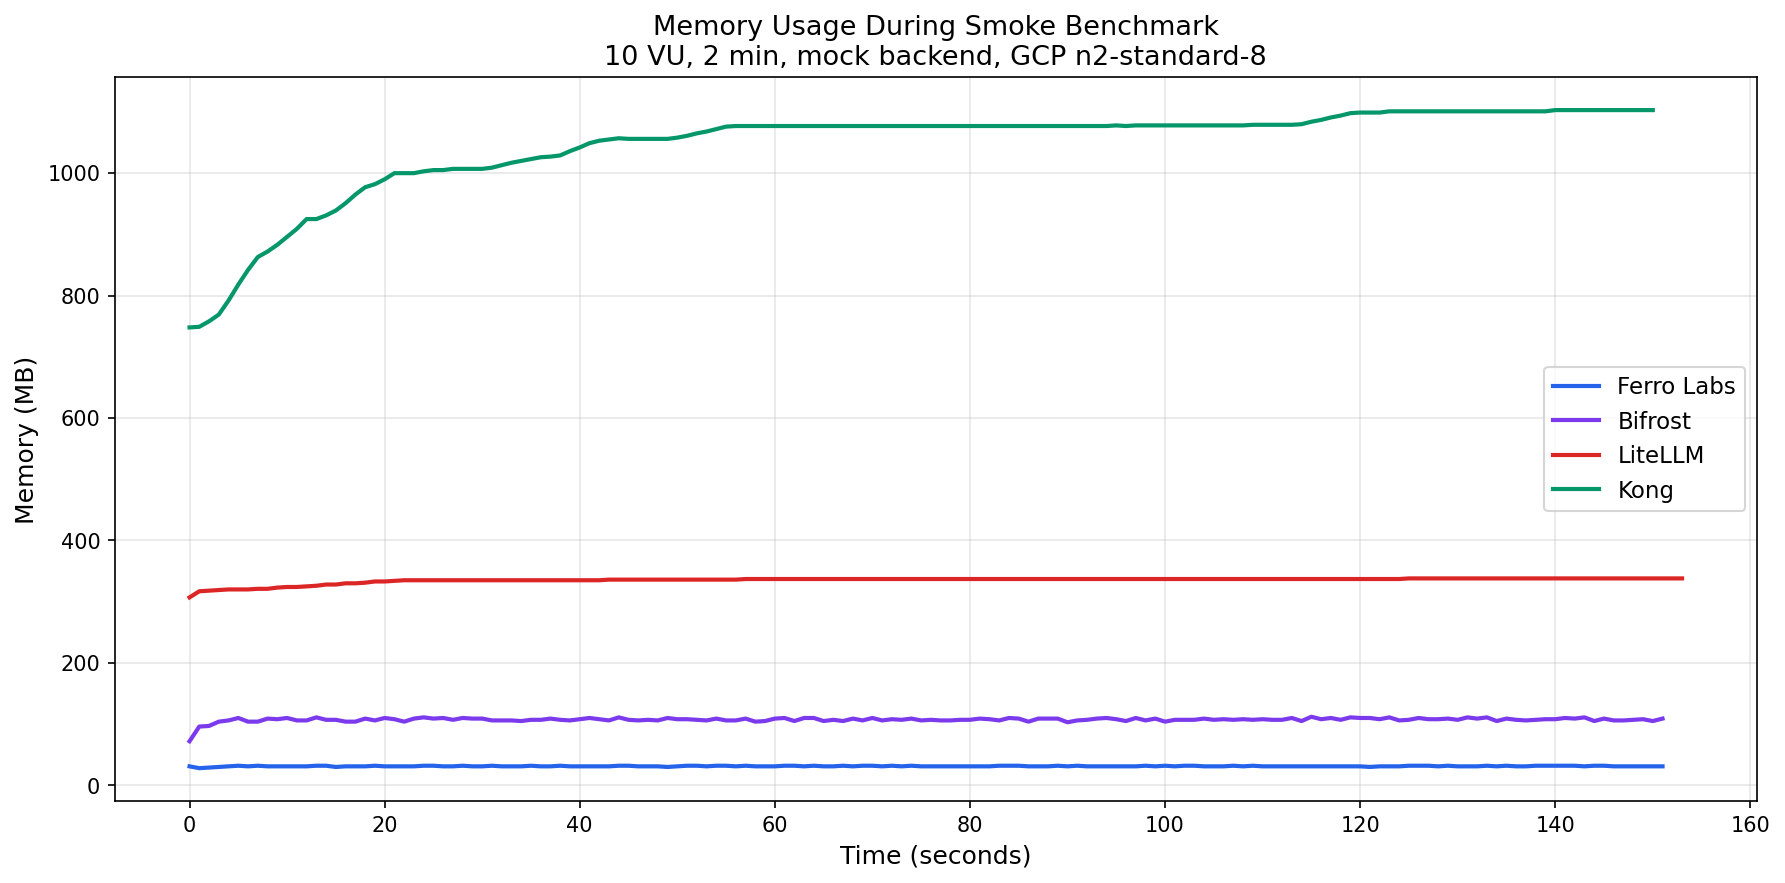
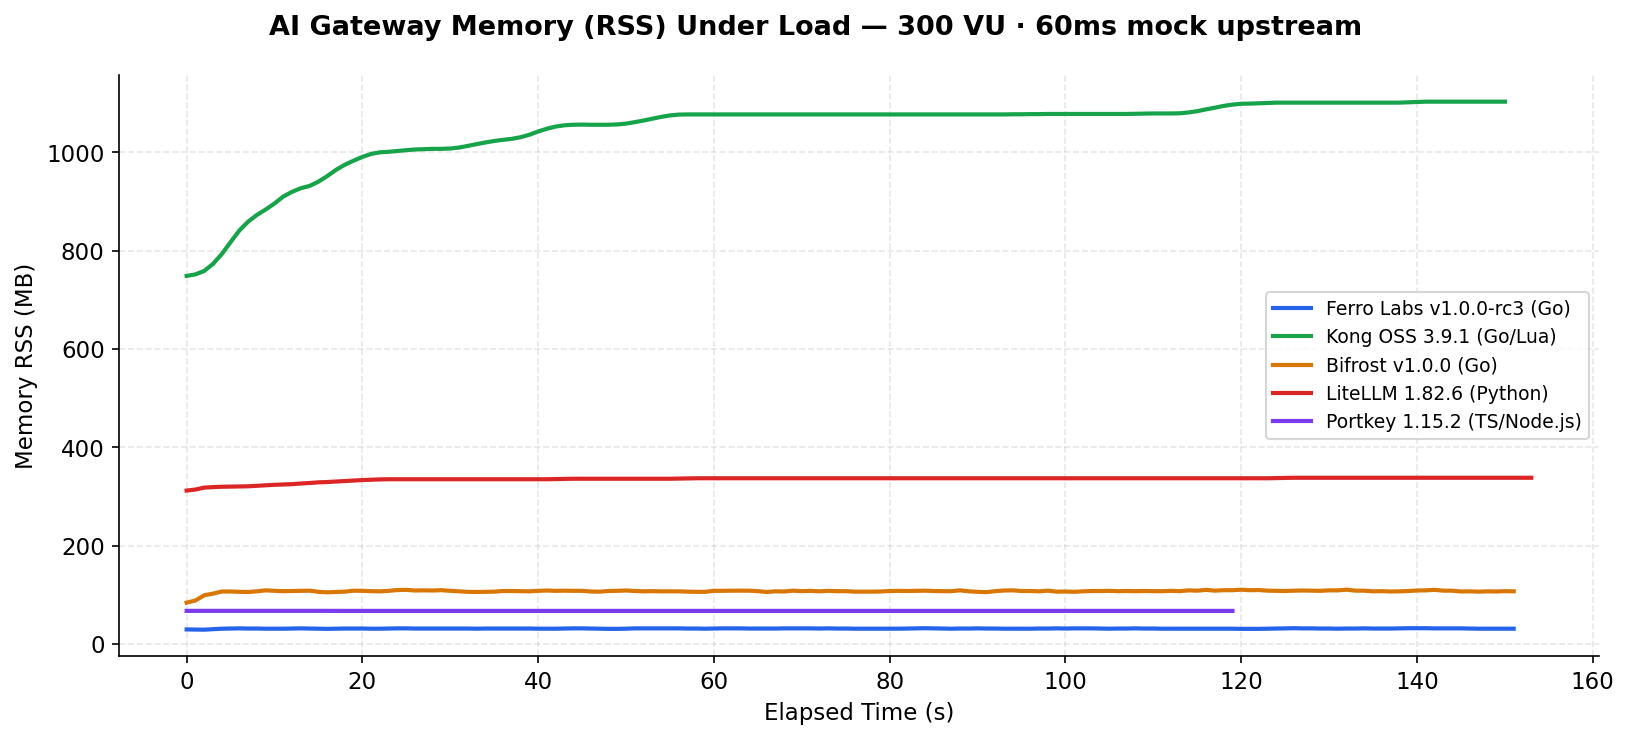
bench: add Portkey Docker benchmark results (k6, 50–1000 VU)
- Portkey v1.15.2 (portkeyai/gateway:latest) via Docker --network host
- Same VU progression as other gateways: 50/150/300/500/1000 VU, 60s each
- 60ms fixed-latency mock upstream on localhost:9000
- Peak throughput ~891 RPS at 1000 VU; errors begin at 300 VU (0.18%)
- Memory footprint: 67 MB RSS (second lowest after Ferro's 32 MB)
- Resource CSV + updated combined memory chart included
- k6 test script added for reproducibility

diff --git a/scripts/k6-portkey.js b/scripts/k6-portkey.js
@@ -1,0 +1,26 @@
+import http from 'k6/http';
+
+export const options = {
+  vus: parseInt(__ENV.VUS || '150'),
+  duration: __ENV.DURATION || '60s',
+};
+
+export default function () {
+  http.post(
+    'http://localhost:8787/v1/chat/completions',
+    JSON.stringify({
+      model: 'gpt-4o',
+      messages: [{ role: 'user', content: 'hello' }],
+      stream: false,
+    }),
+    {
+      headers: {
+        'Content-Type': 'application/json',
+        'Authorization': 'Bearer benchmark-portkey-key',
+        'x-portkey-provider': 'openai',
+        'x-portkey-custom-host': 'http://localhost:9000/v1',
+      },
+      timeout: '10s',
+    }
+  );
+}
